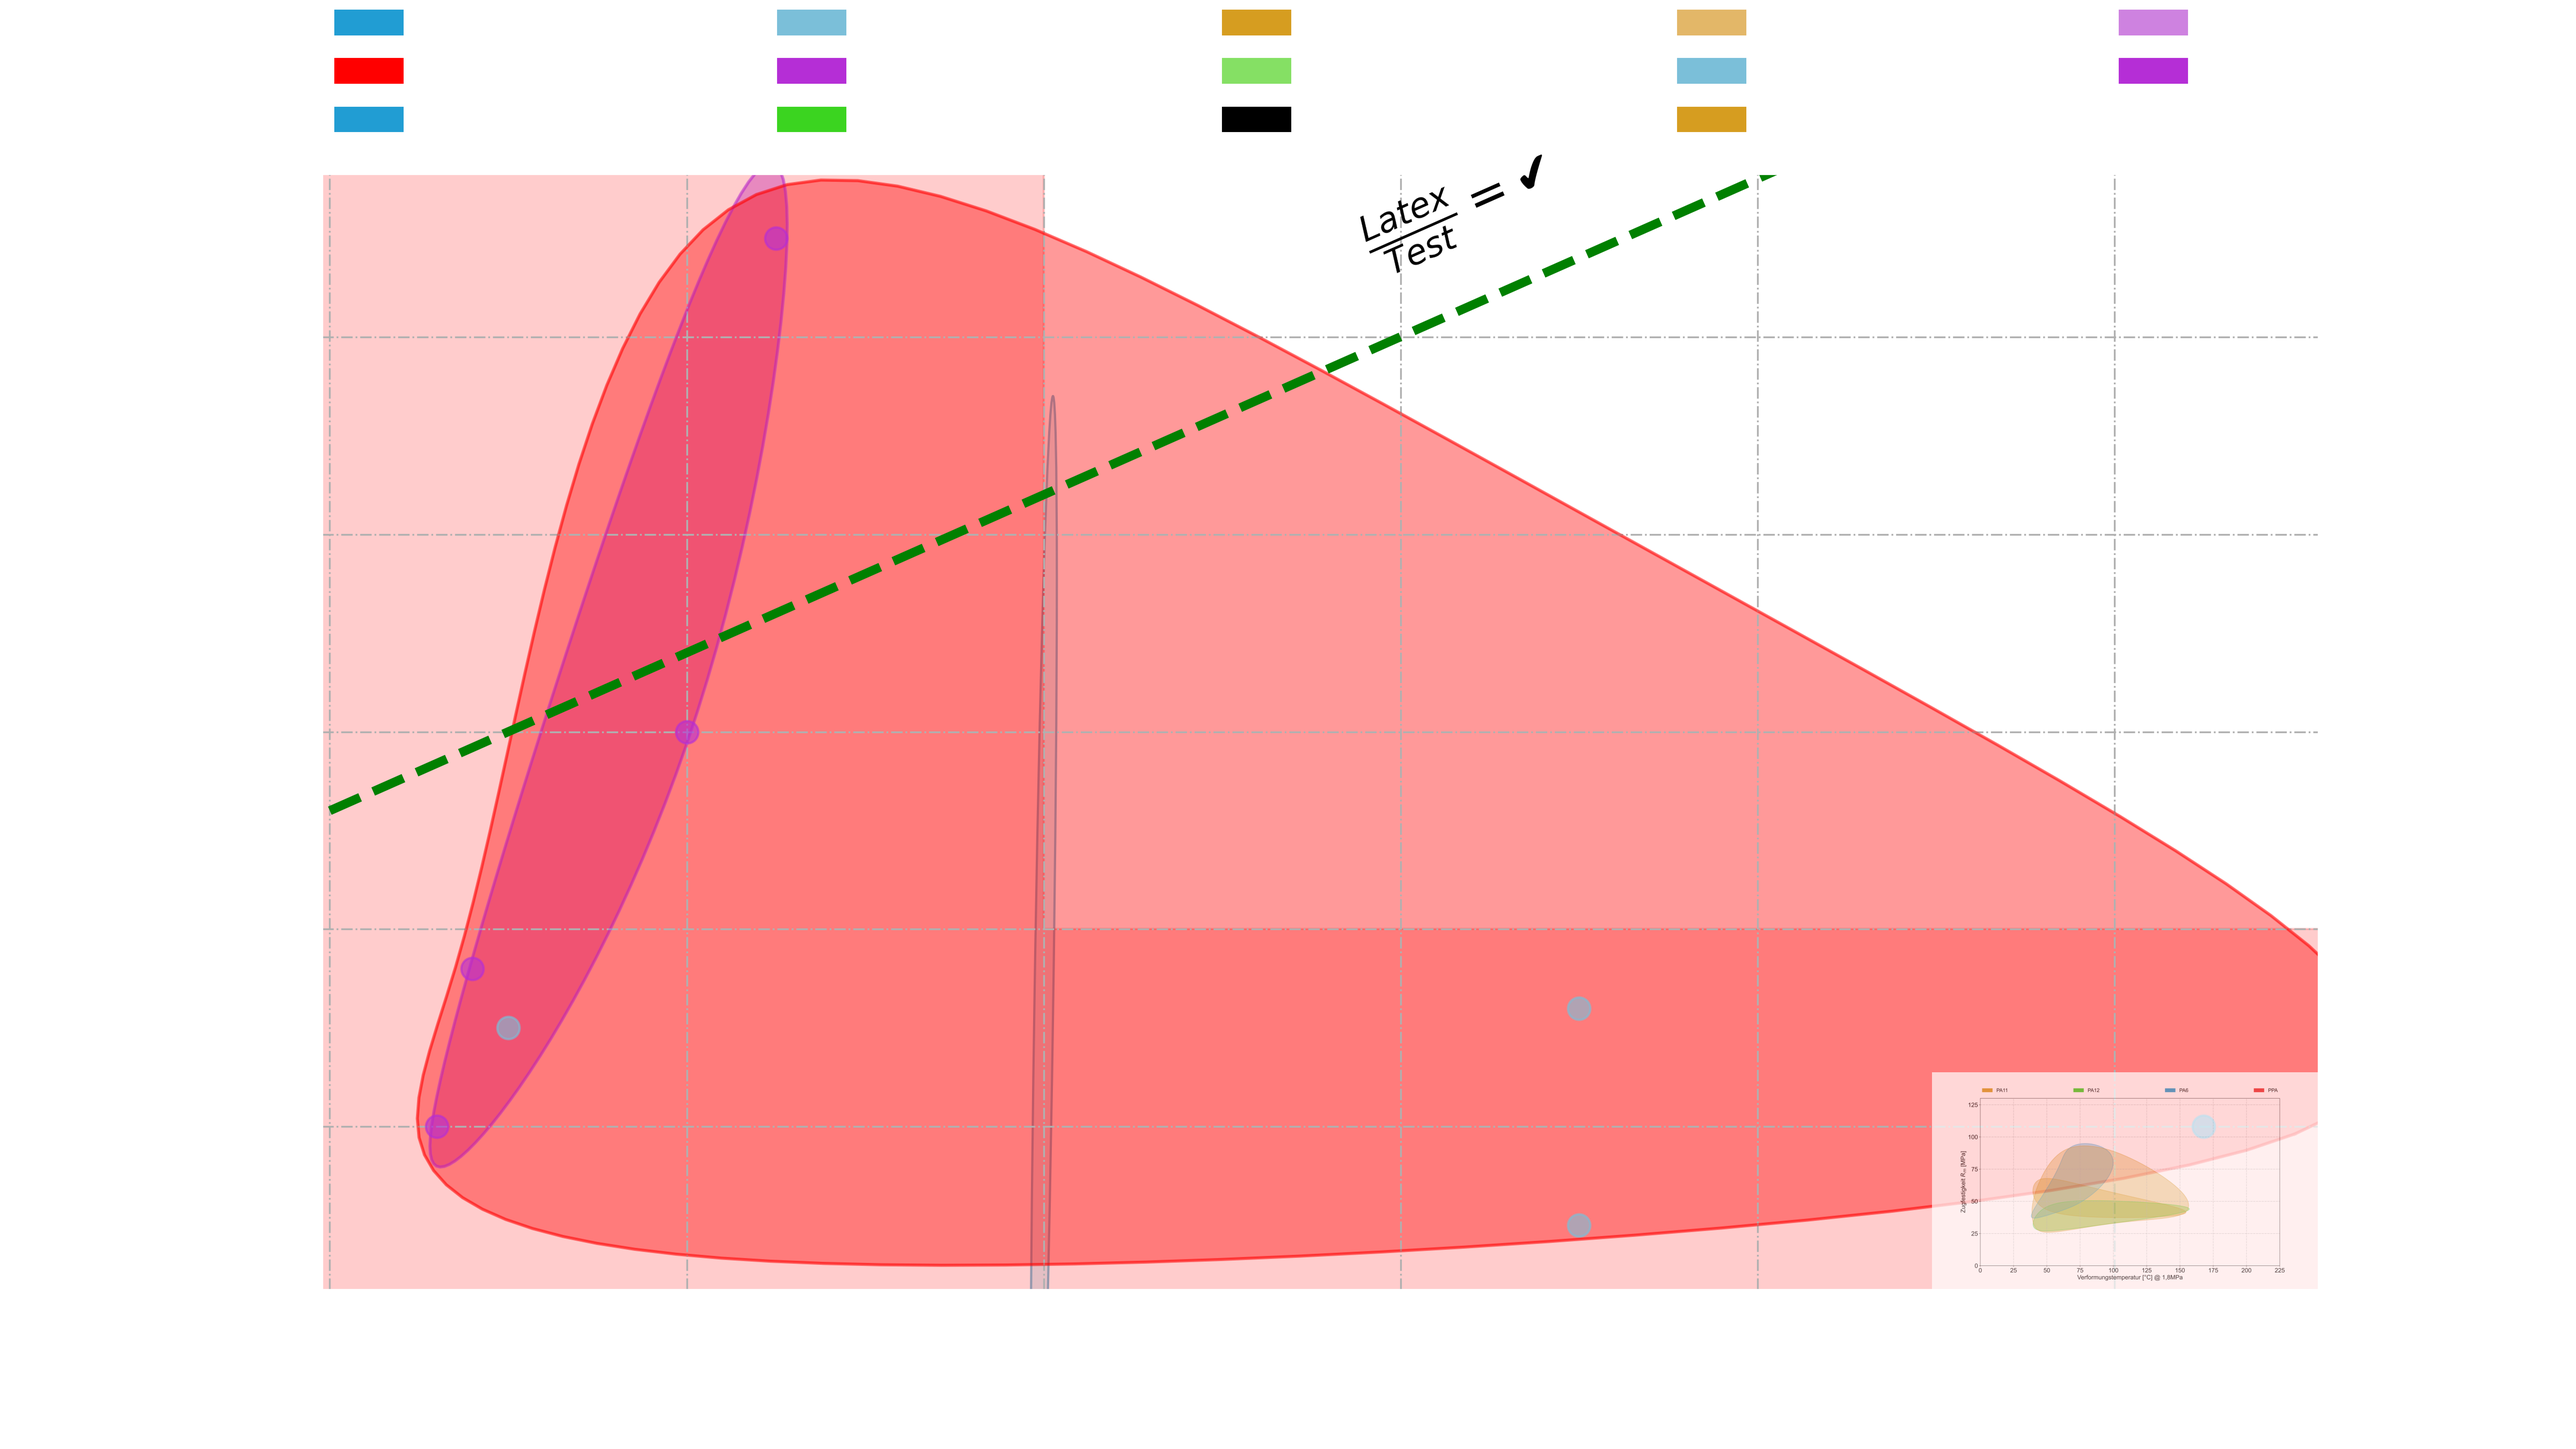
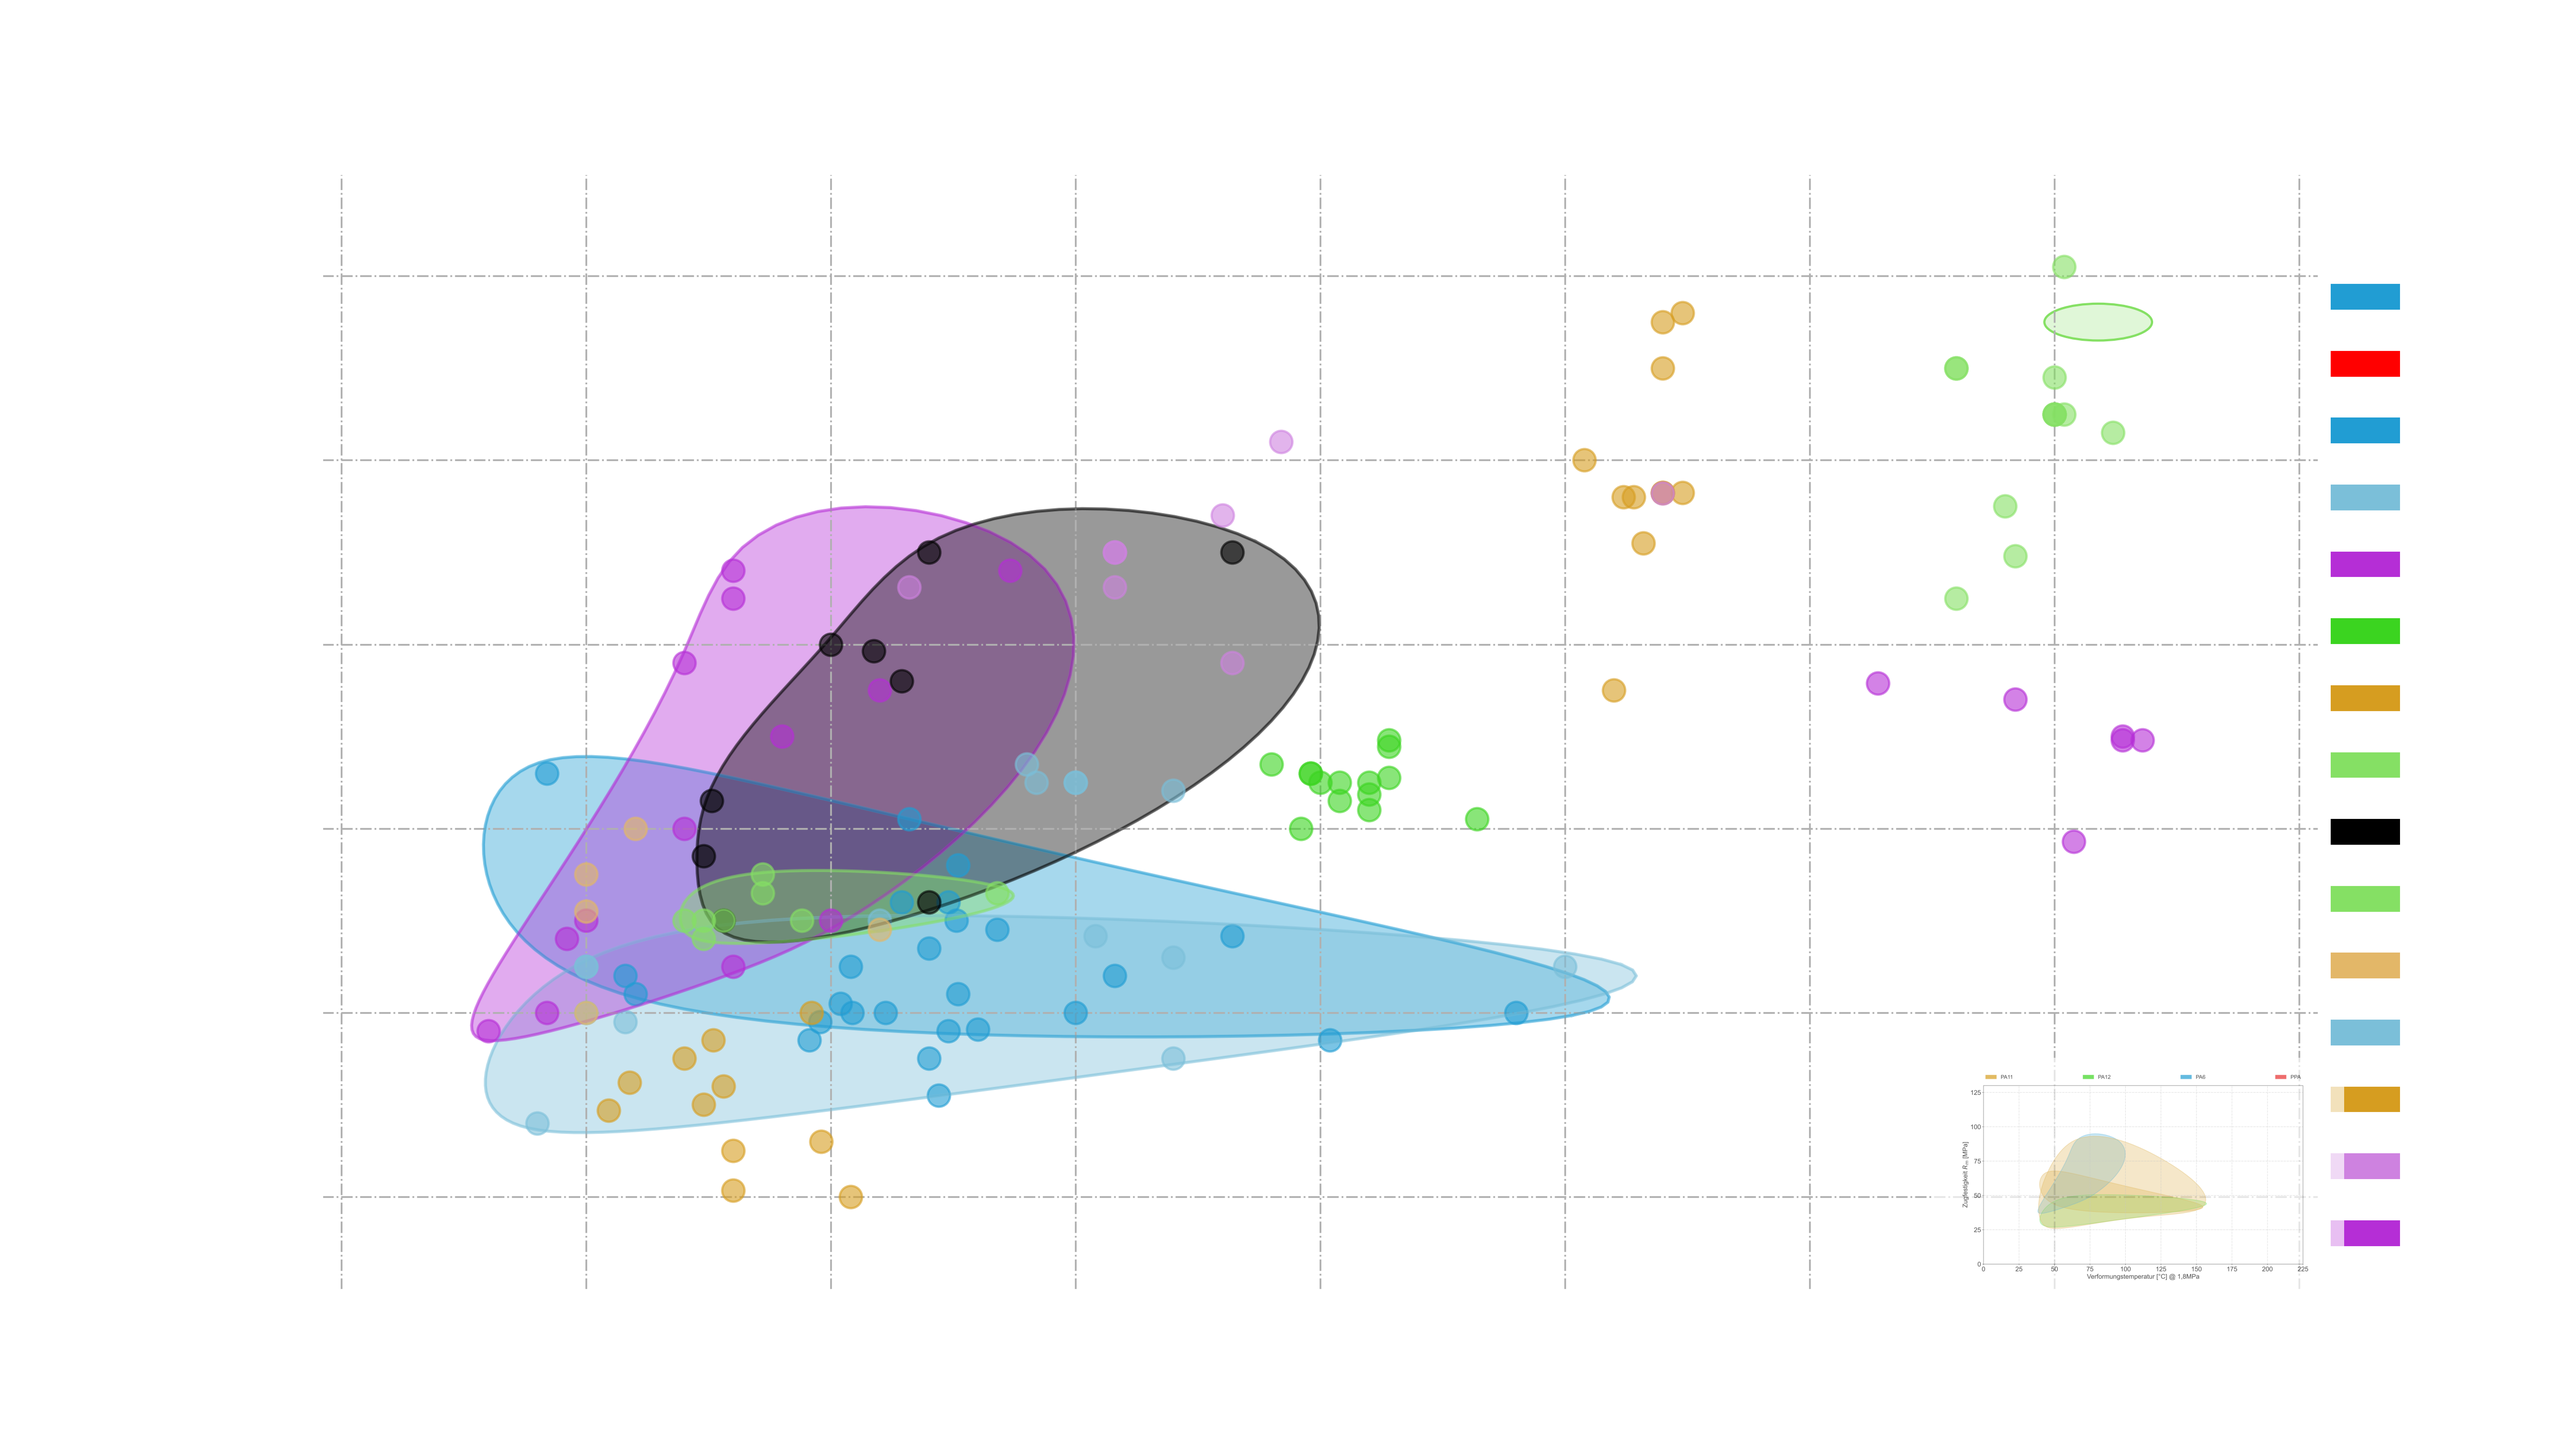
legend next to plot, full layer logic

diff --git a/src/plot_utilities.py b/src/plot_utilities.py
@@ -20,56 +20,7 @@ from src.plot_convex_hull import(
     draw_ellipses,
     draw_hull,
     )
-    
 
-def plotting_presets(figure_type:str = 'publication'):
-    '''
-        Creates plotting presets for font size, marker size,
-        and other quality of life presets.
-
-
-        Parameters
-        ----------
-        figure_type : str
-            Type of figure you would like to create.
-            Options are 'publication' or 'presentation'
-            Toggles different presets like font family, font size, etc.
-
-        Returns
-        -------
-        None.
-    '''
-    #Graphs in a separate window (run in Spyder)
-    if 'SPY_PYTHONPATH' in os.environ:
-        # see https://stackoverflow.com/questions/32538758/nameerror-name-get-ipython-is-not-defined
-        # running inside spyder!
-        #Graphs in a separate window
-        from IPython import get_ipython
-        get_ipython().run_line_magic('matplotlib', 'qt')
-        #Graphs inline (ala Jupyter notebook)
-        #get_ipython().run_line_magic('matplotlib', 'inline')
-    if figure_type.lower() == 'publication':
-        # Plot with serif, Times New Roman Font
-        plt.rc('font', family='serif')
-        plt.rc('font', serif='Times New Roman')
-        plt.rcParams.update({'font.size': 10})
-        plt.rc('text', usetex='True')
-    elif figure_type.lower() == 'presentation':
-        #Plot with sans serif, Arial font
-        plt.rc('font', family='sans-serif')
-        plt.rcParams.update({'font.sans-serif':'Arial'})
-        plt.rcParams.update({'font.size': 18})
-        plt.rc('text',usetex='False')
-    else:
-        raise(ValueError,'Options for plotting_presets are publication or presentation')
-
-    # Use Latex to render all fonts (this may interfere with the svg font encoding)
-    # plt.rc('text', usetex='True')
-    #Use no svg font encoding such that they can be imported as text into inkscape
-    # FIXME grab the stack overflow link for this.
-    plt.rcParams['svg.fonttype'] = 'none'
-    #Modify marker size to make them readable
-    plt.rcParams['lines.markersize'] = 10
 
 
 def filter_data(data, filters, filter_keys):
@@ -230,7 +181,7 @@ def draw_plot(
             print("====== Layer ", current_layer_number, ": ", category, "  (", layer_name, ") ======")             
 
             if (category in layer_whitelist and layer_whitelist_flag == True) or (category not in layer_whitelist and layer_whitelist_flag == False):
-                if category in material_colors   and   category not in legend:   # ° color & legend entry handling
+                if category in material_colors and category not in legend and layer_visibility == True:   # ° color & legend entry handling
                     current_color = material_colors[category]
                     legend.append(category)             # & ignores layer visibility
                 elif current_color == 0:
@@ -255,9 +206,10 @@ def draw_plot(
                         material_colors,
                     )
 
-
-                if DATA.shape[0] > 1 and layer_visibility == True                              \
-                and not (len(data.groupby(layer_name).groups.keys()) == 1 and plotted == False): # hull not empty  &  visible  &  not identical to layer below if layer below is plotted
+                print("plotted: ", plotted, "  -  keys: ", data.groupby(layer_name).groups.keys())
+                if DATA.shape[0] > 1 and layer_visibility == True              \
+                and not len(data.groupby(layer_name).groups.keys()) == 1       \
+                and plotted == False: # hull not empty  &  visible  &  not identical to layer below if layer below is plotted
                     draw_hull(
                         DATA,
                         scale = 1.05,
@@ -277,7 +229,7 @@ def draw_plot(
 
 
         if len(data.groupby(layer_name).groups.keys()) > 1:
-            plotted == False        # & plotted
+            plotted = False        # & plotted
                 
         return combined_DATA, legend, plotted
 

diff --git a/src/formating.py b/src/formating.py
@@ -44,31 +44,97 @@ def create_legend(
         handles.append(patch)
     
     plt.legend(
-        handles=handles,
-        bbox_to_anchor = (0, 1.02, 1, 0.2),
-        loc  = 'lower left',        # & put Legend right of the plot
-        mode = 'expand',
-        borderaxespad = 0,
-        fontsize = 15,
-        labelcolor = font_color,
-        facecolor = 'none',
-        edgecolor = 'none',
-        ncol = 5)
+            handles=handles,
+            bbox_to_anchor = (1, 0, 1, 1),
+            title="Materialien:",
+            loc  = 'center left',
+            labelspacing = 1.05,
+            mode = 'expand',
+            borderaxespad = 0,
+            fontsize = 15,
+            labelcolor = font_color,
+            facecolor = 'none',
+            edgecolor = 'none',
+            ncol = 1,
+            # draggable = True
+        )
+    # plt.legend(        # ° legend above
+    #     handles=handles,
+    #     bbox_to_anchor = (0, 1.02, 1, 0.2),
+    #     loc  = 'lower left',        # & put Legend right of the plot
+    #     mode = 'expand',
+    #     borderaxespad = 0,
+    #     fontsize = 15,
+    #     labelcolor = font_color,
+    #     facecolor = 'none',
+    #     edgecolor = 'none',
+    #     ncol = 5)
 
 
-def watermark(fig, alpha):
+def watermark(fig, alpha, pos, size):
     logo =  os.path.join(
             os.getcwd(),
             'media',
             'watermark.png'
         )
 
+    # change alpha value
     img = Image.open(logo).convert("RGBA")
     r, g, b, a = img.split()
-    a = a.point(lambda x: int(x * alpha))  # z.B. 40% Sichtbarkeit
+    a = a.point(lambda x: int(x * alpha))
     img = Image.merge("RGBA", (r, g, b, a))
     img_array = np.array(img)
 
-    logo_ax = fig.add_axes([0.75, 0.11, 0.15, 0.15], anchor='SE', zorder=101)
+    logo_ax = fig.add_axes([pos[0], pos[1], size, size], anchor='SE', zorder=101, )
     logo_ax.imshow(img_array)
-    logo_ax.axis('off') 
+    logo_ax.axis('off')
+
+
+def plotting_presets(figure_type:str = 'publication'):
+    '''
+        Creates plotting presets for font size, marker size,
+        and other quality of life presets.
+
+
+        Parameters
+        ----------
+        figure_type : str
+            Type of figure you would like to create.
+            Options are 'publication' or 'presentation'
+            Toggles different presets like font family, font size, etc.
+
+        Returns
+        -------
+        None.
+    '''
+    #Graphs in a separate window (run in Spyder)
+    if 'SPY_PYTHONPATH' in os.environ:
+        # see https://stackoverflow.com/questions/32538758/nameerror-name-get-ipython-is-not-defined
+        # running inside spyder!
+        #Graphs in a separate window
+        from IPython import get_ipython
+        get_ipython().run_line_magic('matplotlib', 'qt')
+        #Graphs inline (ala Jupyter notebook)
+        #get_ipython().run_line_magic('matplotlib', 'inline')
+    if figure_type.lower() == 'publication':
+        # Plot with serif, Times New Roman Font
+        plt.rc('font', family='serif')
+        plt.rc('font', serif='Times New Roman')
+        plt.rcParams.update({'font.size': 10})
+        plt.rc('text', usetex='True')
+    elif figure_type.lower() == 'presentation':
+        #Plot with sans serif, Arial font
+        plt.rc('font', family='sans-serif')
+        plt.rcParams.update({'font.sans-serif':'Arial'})
+        plt.rcParams.update({'font.size': 18})
+        plt.rc('text',usetex='False')
+    else:
+        raise(ValueError,'Options for plotting_presets are publication or presentation')
+
+    # Use Latex to render all fonts (this may interfere with the svg font encoding)
+    # plt.rc('text', usetex='True')
+    #Use no svg font encoding such that they can be imported as text into inkscape
+    # FIXME grab the stack overflow link for this.
+    plt.rcParams['svg.fonttype'] = 'none'
+    #Modify marker size to make them readable
+    plt.rcParams['lines.markersize'] = 10

diff --git a/plot_ashby.py b/plot_ashby.py
@@ -25,7 +25,6 @@ import numpy as np
 
 from src.plot_utilities import (
         draw_plot,
-        plotting_presets,
     )
 
 from src.plot_acessories import (
@@ -36,7 +35,8 @@ from src.plot_acessories import (
     )
 from src.formating import(
         create_legend,
-        watermark
+        watermark,
+        plotting_presets,
 
     )
 
@@ -63,21 +63,21 @@ if __name__ == '__main__':
 
     # quantities you would like to plot
     x_axes_quantities = ['Deflection Temperature at 1.8 MPa 264 psi']
-    x_label = x_axes_quantities[0]
+    x_label = "Deflection Temperature [°C] @ 1.8 MPa"  # x_axes_quantities[0]
     y_axes_quantities = ["Tensile Strength Yield", "Tensile Strength Ultimate", "Tensile Strength at Break", "Tensile Strength"]
-    y_label = y_axes_quantities[0]
+    y_label = "Tensile Strength Yield [MPa]"   # y_axes_quantities[0]
     legend_flag = True
 
     # ~ layer                                                   
     layers = {           # different hirachie layers the Materials are stored in the excel  # & still very buggy (3. & 2.if!1.)
             'name': 'Gruppe',
-            'visible': True,
-            'whitelist_flag': True,    # False ≙ blacklist 
-            'whitelist': ['PA'],
+            'visible': False,
+            'whitelist_flag': False,    # False ≙ blacklist 
+            'whitelist': [None],
             'alpha': 0.4
         },{
             'name': 'Material',
-            'visible': True,
+            'visible': False,
             'whitelist_flag': False,    # False ≙ blacklist 
             'whitelist': [None],
             'alpha': 0.4
@@ -240,7 +240,7 @@ if __name__ == '__main__':
 
         'PA': "red",
         'PET':"black",
-        'default':"white",
+        'default':"grey",
         }
 # ~ export                                                          
     export_transparent_flag = False
@@ -248,6 +248,7 @@ if __name__ == '__main__':
         export_file_name = "Ashbyplot_transparent"
         font_color = 'white'
     else:
+        title = "Ashbyplot"
         font_color = 'black'
 # ❗ end of USER INPUT                                                                                                                                      
 
@@ -268,6 +269,9 @@ if __name__ == '__main__':
 
     #Create figure
     fig, ax = plt.subplots(1,1, figsize=figure_size)
+    # fig = plt.figure(figsize=figure_size)                      # hulls in right plot ??
+    # ax  = plt.subplot2grid((1,11), (0,0), colspan=10)
+    # legend_sp = plt.subplot2grid((1,11), (0,10), colspan=1)    # hide spines, ticks, 
     # & other formats: title , legend at side
 
 
@@ -370,11 +374,12 @@ if __name__ == '__main__':
                 linestyle = '-.',
                 zorder = 0.5,
             )
+        # plt.tight_layout(pad=2.5)
 
         # set x- and y-labels
         try:
-            x_label = x_label + '  [' + units[x_label]  + ']'
-            y_label = y_label + '  [' + units[y_label]  + ']'
+            # x_label = x_label + '  [' + units[x_label]  + ']'
+            # y_label = y_label + '  [' + units[y_label]  + ']'
 
             ax.set_xlabel(x_label, color = font_color)
             ax.set_ylabel(y_label, color = font_color)
@@ -385,12 +390,14 @@ if __name__ == '__main__':
 
 # : export :
     if export_transparent_flag:
-        watermark(fig, alpha=0.7)
+        watermark(fig, alpha=0.7, pos=[0.75, 0.11], size=.16)
         
         ax.tick_params(colors=font_color)     # Achsenbeschriftungen
         ax.spines[:].set_color(font_color)
 
         plt.savefig(os.path.join('export', export_file_name), dpi=300, transparent=True)
+    else:
+        plt.title(title, loc='left')
 
     plt.show()
 
